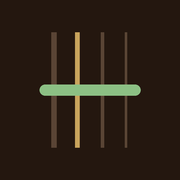
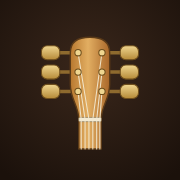
튜너 화면을 아날로그 바늘 미터로 개편하고 기타 헤드 아이콘 적용
- 부채꼴 눈금판(±50센트)과 스프링-댐퍼 관성 바늘 (감지 로직은 변경 없음)
- 아이콘 3종 재제작 및 원본 icon.svg 추가
- sw.js CACHE를 tuner-v2로 상향

Claude-Session: https://claude.ai/code/session_01L9Yama5W2KSZonhX31dMvv

Changed region(s): [[0.2222, 0.1667, 0.8056, 0.8333]]

diff --git a/index.html b/index.html
@@ -18,6 +18,7 @@
 :root{
   --bg:#E4E7DF; --surface:#D3D8CC; --ink:#2B2420; --muted:#6B6259;
   --brass:#8A6A2C; --good:#3E8A47; --off:#B0456A; --line:#9AA090;
+  --dial:#F1E7CF; --dial2:#D9C9A3; --dialink:#2B2420; --bezel:#3A2D24;
   box-sizing:border-box;
   padding-top:env(safe-area-inset-top,0px);
   padding-bottom:env(safe-area-inset-bottom,0px);
@@ -26,11 +27,13 @@
   :root:not([data-theme="light"]){
     --bg:#24170F; --surface:#33231A; --ink:#EFE4D0; --muted:#A8977F;
     --brass:#C9A45C; --good:#8CC084; --off:#D3708C; --line:#5A4535;
+    --dial:#E9DCBC; --dial2:#BFA877; --dialink:#2B2013; --bezel:#120B07;
   }
 }
 :root[data-theme="dark"]{
   --bg:#24170F; --surface:#33231A; --ink:#EFE4D0; --muted:#A8977F;
   --brass:#C9A45C; --good:#8CC084; --off:#D3708C; --line:#5A4535;
+  --dial:#E9DCBC; --dial2:#BFA877; --dialink:#2B2013; --bezel:#120B07;
 }
 *,*::before,*::after{box-sizing:inherit}
 html{height:100%;scroll-padding-top:env(safe-area-inset-top,0px)}
@@ -53,26 +56,26 @@ body{height:100%;margin:0;background:var(--bg);color:var(--ink);
 /* 중앙 판독부 */
 .readout{flex:1;display:flex;flex-direction:column;justify-content:center;align-items:center;min-height:0}
 .note{font-family:"Big Shoulders Display","Arial Narrow",sans-serif;font-weight:800;
-  font-size:clamp(120px,38vw,180px);line-height:.9;letter-spacing:-.02em;
-  color:var(--ink);transition:color .15s}
+  font-size:clamp(72px,24vw,112px);line-height:.9;letter-spacing:-.02em;
+  color:var(--ink);transition:color .15s;margin-bottom:12px}
 .note sub{font-size:.28em;font-weight:600;color:var(--muted);vertical-align:baseline;margin-left:4px}
 .readout[data-state="good"] .note{color:var(--good)}
 .readout[data-state="off"] .note{color:var(--off)}
 .readout[data-state="idle"] .note{color:var(--line)}
 
-.strip{position:relative;width:100%;height:56px;margin:28px 0 12px}
-.ticks{position:absolute;inset:0;display:flex;justify-content:space-between;align-items:center}
-.ticks i{width:2px;height:14px;background:var(--line);border-radius:1px}
-.ticks i.mid{height:40px;background:var(--brass);width:3px}
-.ticks i.ten{height:24px}
-.zone{position:absolute;top:8px;bottom:8px;left:calc(50% - 3%);width:6%;
-  background:var(--good);opacity:.18;border-radius:4px}
-.marker{position:absolute;top:0;bottom:0;left:50%;width:6px;margin-left:-3px;
-  background:var(--ink);border-radius:3px;transition:left .08s linear,background .15s}
-.readout[data-state="good"] .marker{background:var(--good)}
-.readout[data-state="off"] .marker{background:var(--off)}
-.readout[data-state="idle"] .marker{opacity:0}
-.scale{width:100%;display:flex;justify-content:space-between;font-size:12px;color:var(--muted)}
+.meter{width:100%;max-height:100%;display:block;filter:drop-shadow(0 6px 10px rgba(0,0,0,.28))}
+.meter .face{fill:url(#dialGrad)}
+.meter .bezel{fill:var(--bezel)}
+.meter .tk{stroke:var(--dialink);stroke-linecap:round}
+.meter .lbl{fill:var(--dialink);font:600 10px "IBM Plex Sans KR",system-ui,sans-serif;text-anchor:middle;dominant-baseline:middle}
+.meter .zone{fill:none;stroke:var(--good);stroke-width:7;opacity:.55}
+.meter .flat,.meter .sharp{font:800 15px "Big Shoulders Display","Arial Narrow",sans-serif;fill:var(--dialink);text-anchor:middle;opacity:.7}
+.meter .needle{stroke:#B3261E;stroke-linecap:round;transition:stroke .15s}
+.meter .hub{fill:#2B2420;stroke:#8A6A2C;stroke-width:2}
+.meter .glass{fill:url(#glassGrad);pointer-events:none}
+#needle{transition:opacity .3s}
+.readout[data-state="idle"] #needle{opacity:.45}
+.readout[data-state="good"] .needle{stroke:var(--good)}
 .status{margin-top:16px;font-size:18px;font-weight:600;min-height:1.4em}
 .hz{font-size:14px;color:var(--muted);min-height:1.3em;font-variant-numeric:tabular-nums}
 
@@ -90,7 +93,7 @@ body{height:100%;margin:0;background:var(--bg);color:var(--ink);
 .str.locked .peg small{color:var(--bg)}
 .str.ring .wire{animation:ring .09s linear infinite alternate}
 @keyframes ring{from{transform:translateX(-1px)}to{transform:translateX(1px)}}
-@media (prefers-reduced-motion:reduce){.str.ring .wire{animation:none}.marker{transition:none}}
+@media (prefers-reduced-motion:reduce){.str.ring .wire{animation:none}}
 
 .bottom{display:flex;gap:12px;margin-top:12px}
 .bottom button{flex:1;height:52px;border-radius:14px;font:inherit;font-weight:600;font-size:16px;cursor:pointer}
@@ -118,12 +121,29 @@ button:focus-visible{outline:3px solid var(--brass);outline-offset:2px}
 
   <section class="readout" id="readout" data-state="idle" aria-live="polite">
     <div class="note" id="note">E<sub>2</sub></div>
-    <div class="strip" aria-hidden="true">
-      <div class="zone"></div>
-      <div class="ticks" id="ticks"></div>
-      <div class="marker" id="marker"></div>
-    </div>
-    <div class="scale" aria-hidden="true"><span>−50</span><span>0</span><span>+50</span></div>
+    <svg class="meter" viewBox="0 0 320 214" aria-hidden="true">
+      <defs>
+        <radialGradient id="dialGrad" cx="50%" cy="95%" r="95%">
+          <stop offset="0" stop-color="var(--dial)"/><stop offset="1" stop-color="var(--dial2)"/>
+        </radialGradient>
+        <linearGradient id="glassGrad" x1="0" y1="0" x2="0" y2="1">
+          <stop offset="0" stop-color="#fff" stop-opacity=".28"/><stop offset=".5" stop-color="#fff" stop-opacity="0"/>
+        </linearGradient>
+        <clipPath id="clipFace"><rect x="8" y="8" width="304" height="198" rx="18"/></clipPath>
+      </defs>
+      <rect class="bezel" x="0" y="0" width="320" height="214" rx="24"/>
+      <rect class="face" x="8" y="8" width="304" height="198" rx="18"/>
+      <g clip-path="url(#clipFace)">
+        <g id="dialMarks"></g>
+        <text class="flat" x="62" y="52">♭</text>
+        <text class="sharp" x="258" y="52">♯</text>
+        <g id="needle">
+          <line class="needle" x1="160" y1="226" x2="160" y2="42" stroke-width="2.6"/>
+          <line class="needle" x1="160" y1="226" x2="160" y2="196" stroke-width="7" opacity=".9"/>
+        </g>
+        <rect class="glass" x="8" y="8" width="304" height="100"/>
+      </g>
+    </svg>
     <div class="status" id="status">시작을 누르고 줄을 튕기세요</div>
     <div class="hz" id="hz"></div>
   </section>
@@ -161,15 +181,46 @@ let auto = true, locked = 0;
 let ctx=null, analyser=null, stream=null, buf=null, raf=0, wake=null;
 let hist=[], smooth=null, curIdx=-1, lastHeard=0, frame=0;
 
-// 눈금
+// 부채꼴 눈금판: ±50센트 = ±45도, 회전축은 판 하단 중앙(160,226)
+const PX=160, PY=226, DEG_PER_CENT=0.9;
 (function(){
-  const t=$('ticks');
+  const NS='http://www.w3.org/2000/svg', g=$('dialMarks');
+  const pt=(c,r)=>{ const a=c*DEG_PER_CENT*Math.PI/180; return [PX+r*Math.sin(a), PY-r*Math.cos(a)]; };
+  const mk=(tag,attrs,txt)=>{ const e=document.createElementNS(NS,tag); for(const k in attrs) e.setAttribute(k,attrs[k]); if(txt!==undefined) e.textContent=txt; g.appendChild(e); };
+  const R=176;
+  const [zx1,zy1]=pt(-IN_TUNE,R-8), [zx2,zy2]=pt(IN_TUNE,R-8);
+  mk('path',{class:'zone',d:`M${zx1} ${zy1} A${R-8} ${R-8} 0 0 1 ${zx2} ${zy2}`});
+  const [ax,ay]=pt(-50,R), [bx,by]=pt(50,R);
+  mk('path',{class:'tk',fill:'none','stroke-width':1.4,d:`M${ax} ${ay} A${R} ${R} 0 0 1 ${bx} ${by}`});
   for(let c=-50;c<=50;c+=5){
-    const i=document.createElement('i');
-    if(c===0) i.className='mid'; else if(c%10===0) i.className='ten';
-    t.appendChild(i);
+    const major=c%10===0, mid=c===0;
+    const [x1,y1]=pt(c,R), [x2,y2]=pt(c,R-(mid?24:major?16:9));
+    mk('line',{class:'tk',x1,y1,x2,y2,'stroke-width':mid?3:major?2:1.2});
+    if(major){ const [tx,ty]=pt(c,R-30); mk('text',{class:'lbl',x:tx,y:ty},Math.abs(c)); }
   }
 })();
+
+// 바늘: 스프링-댐퍼 관성 (감지 로직과 분리, 목표 센트만 받음)
+const needleEl=$('needle');
+const reduceMotion=matchMedia('(prefers-reduced-motion:reduce)');
+let nPos=0, nVel=0, nTarget=0, nRaf=0, nLast=0;
+function renderNeedle(){ needleEl.setAttribute('transform',`rotate(${(nPos*DEG_PER_CENT).toFixed(2)} ${PX} ${PY})`); }
+function stepNeedle(t){
+  const dt=Math.min(0.05,(t-nLast)/1000||0.016); nLast=t;
+  const K=70, C=9.5; // 약한 부족감쇠: 살짝 넘쳤다가 안착
+  nVel+=(K*(nTarget-nPos)-C*nVel)*dt;
+  nPos+=nVel*dt;
+  if(nPos>56){ nPos=56; nVel=-nVel*0.3; } else if(nPos<-56){ nPos=-56; nVel=-nVel*0.3; }
+  renderNeedle();
+  if(Math.abs(nTarget-nPos)<0.05&&Math.abs(nVel)<0.1){ nPos=nTarget; nVel=0; renderNeedle(); nRaf=0; return; }
+  nRaf=requestAnimationFrame(stepNeedle);
+}
+function setNeedle(c){
+  nTarget=Math.max(-50,Math.min(50,c));
+  if(reduceMotion.matches){ nPos=nTarget; nVel=0; renderNeedle(); return; }
+  if(!nRaf){ nLast=performance.now(); nRaf=requestAnimationFrame(stepNeedle); }
+}
+renderNeedle();
 
 const freqOf = m => a4 * Math.pow(2,(m-69)/12);
 
@@ -268,8 +319,7 @@ function tick(){
 }
 function draw(s,c,f){
   showNote(s);
-  const cc=Math.max(-50,Math.min(50,c));
-  $('marker').style.left=(50+cc)+'%';
+  setNeedle(c);
   const r=Math.round(c);
   const good=Math.abs(c)<=IN_TUNE;
   $('readout').dataset.state = good ? 'good' : (Math.abs(c)<=10 ? 'near' : 'off');
@@ -282,7 +332,7 @@ function idle(){
   $('readout').dataset.state='idle';
   $('status').textContent='줄을 튕기세요';
   $('hz').textContent='';
-  hist=[]; smooth=null;
+  hist=[]; smooth=null; setNeedle(0);
   [...$('strings').children].forEach(el=>el.classList.remove('ring'));
   if(auto) setActive(-1);
 }

diff --git a/sw.js b/sw.js
@@ -1,4 +1,4 @@
-const CACHE = 'tuner-v1';
+const CACHE = 'tuner-v2';
 const CORE = ['./', './index.html', './manifest.webmanifest', './icon-192.png', './icon-512.png', './apple-touch-icon.png'];
 self.addEventListener('install', e => {
   e.waitUntil(caches.open(CACHE).then(c => c.addAll(CORE)).then(() => self.skipWaiting()));
